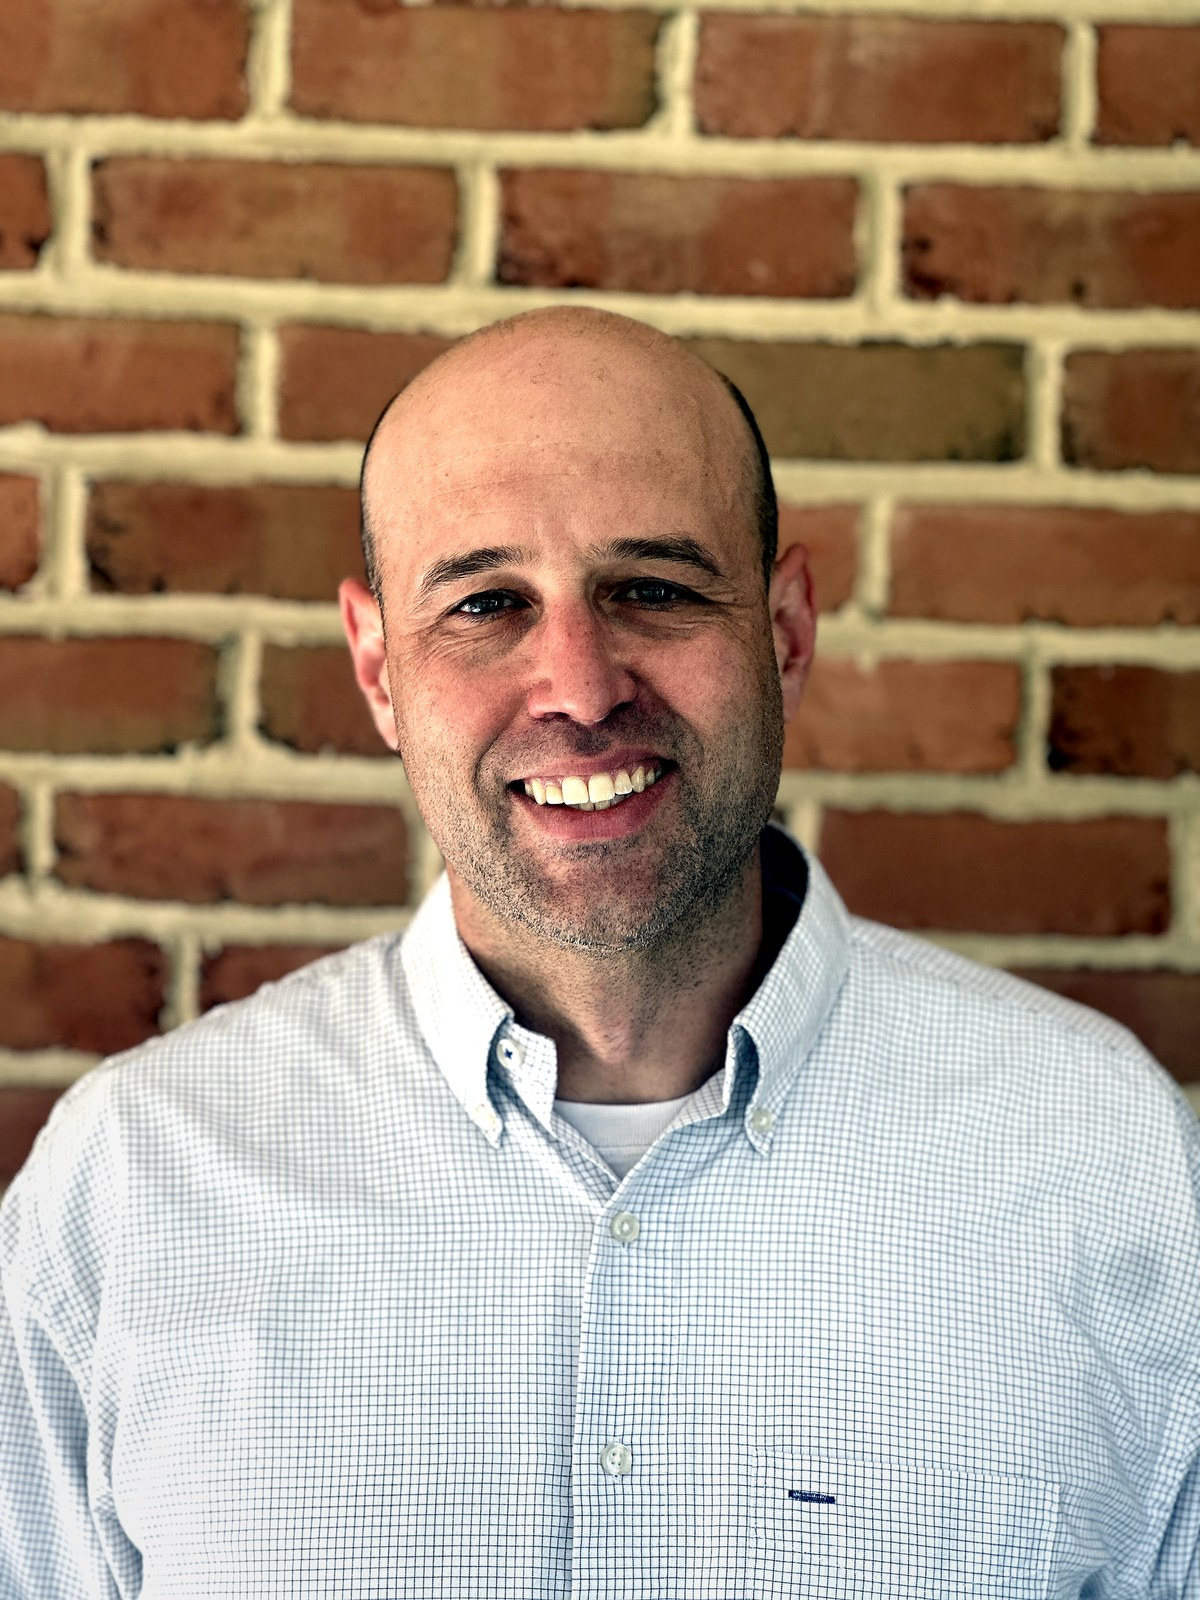
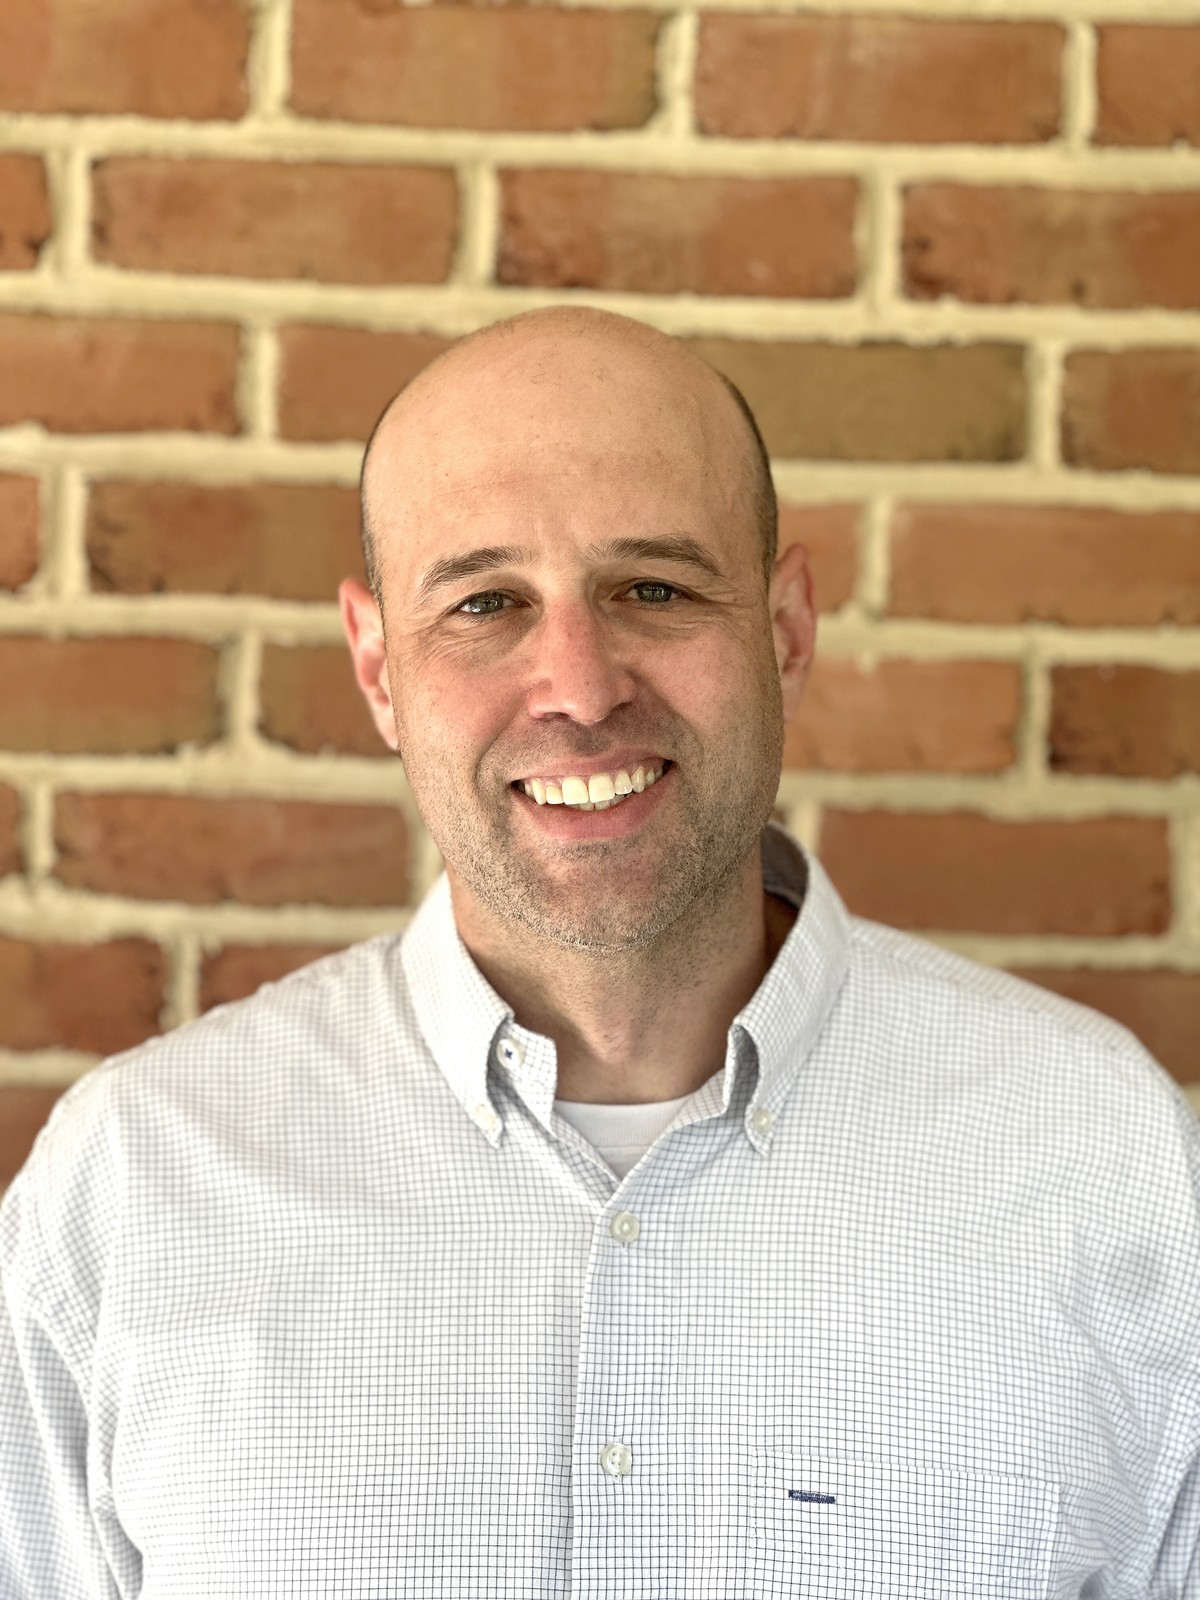
Hero headshot: light/airy edit (drop vignette + added contrast); cache-bust v=4

diff --git a/index.html b/index.html
@@ -370,7 +370,7 @@
         </div>
       </div>
       <figure class="portrait reveal">
-        <img class="portrait-img" src="assets/headshot-casual.jpg?v=3" alt="Paul Thibodeau, PhD" style="object-position:50% 20%">
+        <img class="portrait-img" src="assets/headshot-casual.jpg?v=4" alt="Paul Thibodeau, PhD" style="object-position:50% 20%">
         <figcaption><span>Paul Thibodeau, PhD</span></figcaption>
       </figure>
     </div>
